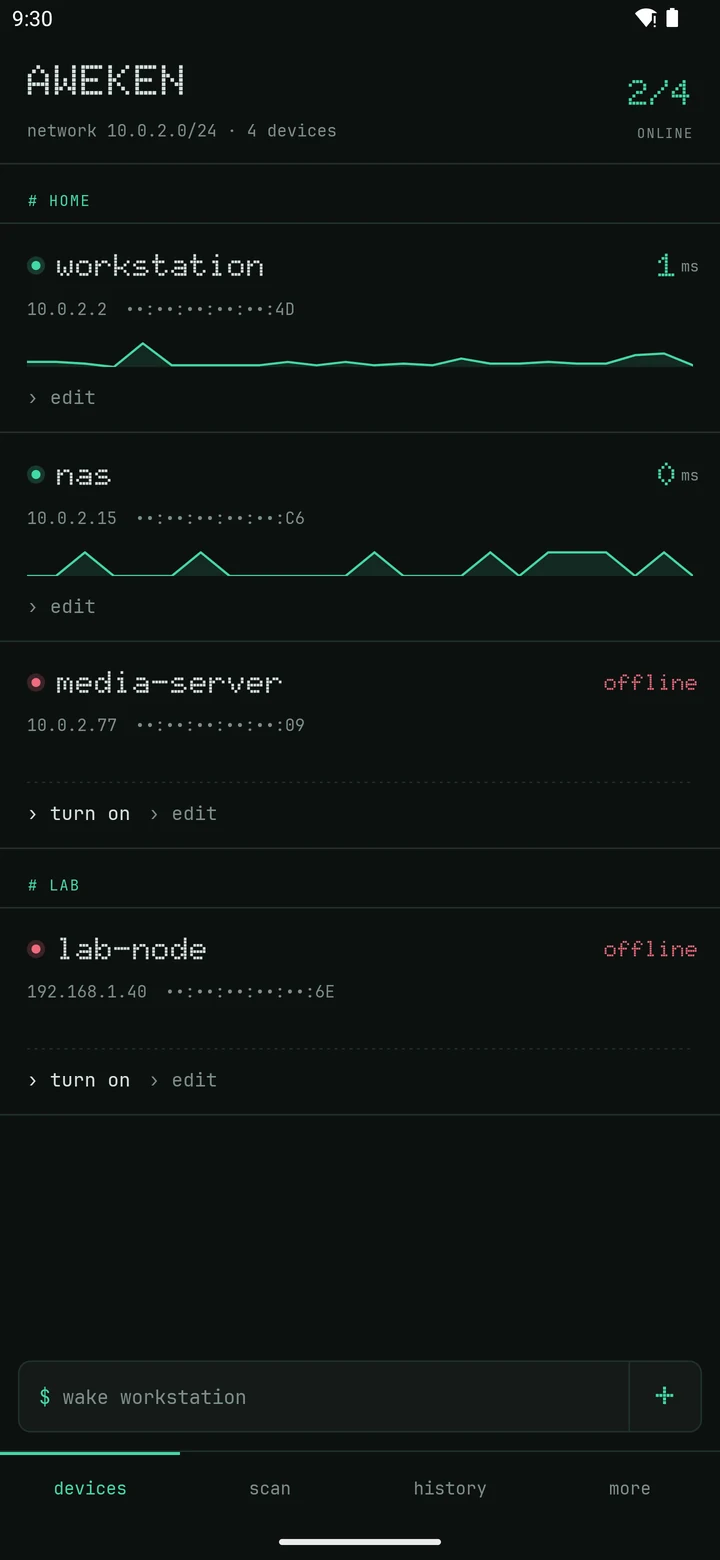
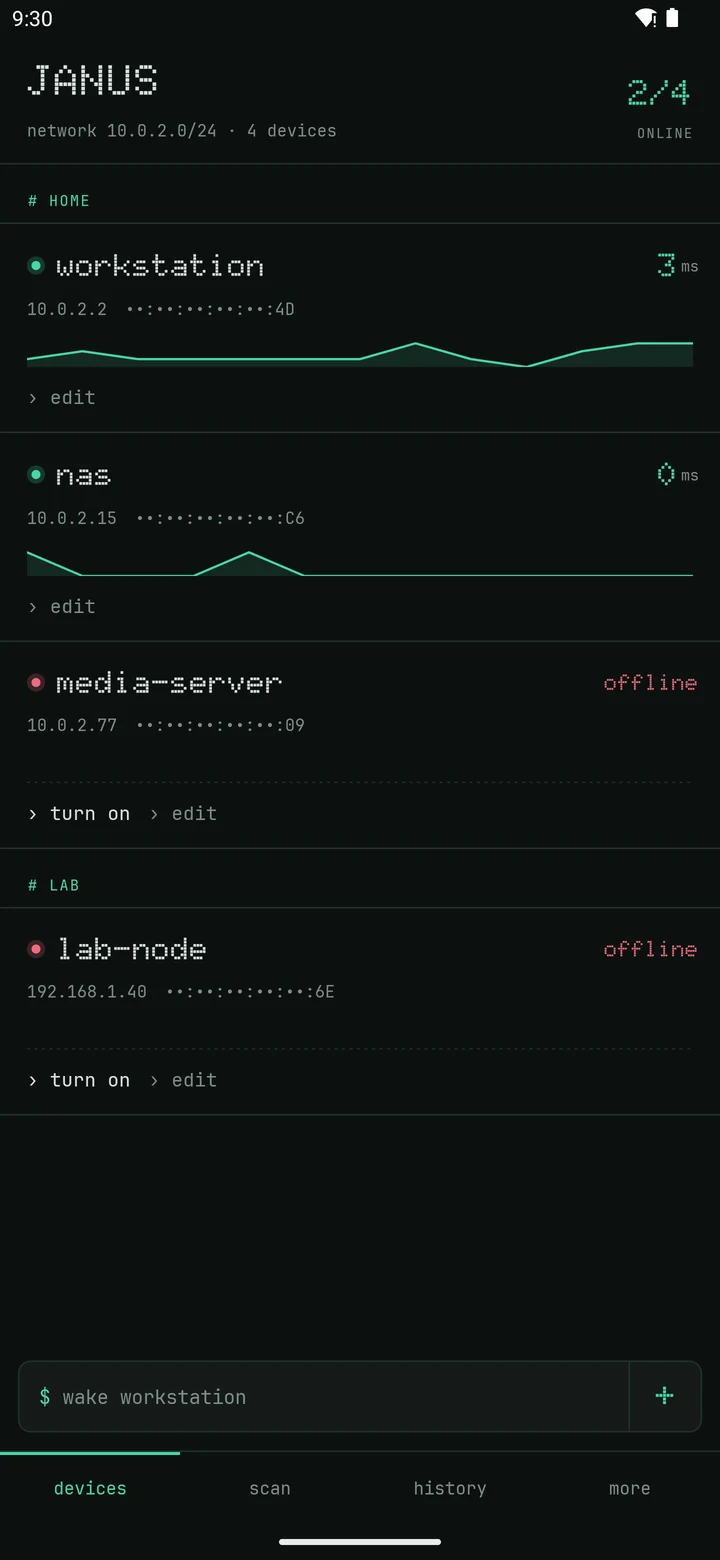
feat(brand): Rename the app from Aweken to Janus

diff --git a/app/src/main/java/com/ymid/wakeonlan/security/SshKeyManager.kt b/app/src/main/java/com/ymid/wakeonlan/security/SshKeyManager.kt
@@ -21,6 +21,7 @@ object SshKeyManager {
     private const val ECDSA_KEY_TYPE = "ecdsa-sha2-nistp256"
     private const val ECDSA_CURVE_NAME = "nistp256"
     private const val EC_COORDINATE_LENGTH = 32
+    // The app was called Aweken: keys already in the Keystore live under this prefix
     const val ALIAS_PREFIX = "aweken_ssh_"
 
     @JvmStatic
@@ -54,9 +55,9 @@ object SshKeyManager {
         val entry = keyStore.getEntry(alias, null) as? KeyStore.PrivateKeyEntry
         when (val pubKey = entry?.certificate?.publicKey) {
             is ECPublicKey ->
-                "$ECDSA_KEY_TYPE ${Base64.encodeToString(encodeSshEcdsa(pubKey), Base64.NO_WRAP)} aweken"
+                "$ECDSA_KEY_TYPE ${Base64.encodeToString(encodeSshEcdsa(pubKey), Base64.NO_WRAP)} janus"
             is RSAPublicKey ->
-                "ssh-rsa ${Base64.encodeToString(encodeSshRsa(pubKey), Base64.NO_WRAP)} aweken"
+                "ssh-rsa ${Base64.encodeToString(encodeSshRsa(pubKey), Base64.NO_WRAP)} janus"
             else -> null
         }
     } catch (_: Exception) { null }

diff --git a/app/src/main/java/com/ymid/wakeonlan/JanusApplication.kt b/app/src/main/java/com/ymid/wakeonlan/JanusApplication.kt
@@ -10,7 +10,7 @@ import com.ymid.wakeonlan.ui.LauncherIconManager
 import com.ymid.wakeonlan.ui.notifications.NotificationHelper
 import java.util.concurrent.Executors
 
-class AwekenApplication : Application() {
+class JanusApplication : Application() {
     override fun onCreate() {
         super.onCreate()
         LauncherIconManager.register(this)

diff --git a/app/src/main/java/com/ymid/wakeonlan/ui/MainActivity.java b/app/src/main/java/com/ymid/wakeonlan/ui/MainActivity.java
@@ -33,7 +33,7 @@ public class MainActivity extends AppCompatActivity implements ConsoleHeaderHost
 
     /** Set by the Assistant's "network scan" feature to land on the scan tab. */
     public static final String EXTRA_OPEN_SCAN = "openScan";
-    private static final String ISSUES_URL = "https://github.com/YmidOrtega/Awaken-Wake-On-Lan-/issues";
+    private static final String ISSUES_URL = "https://github.com/YmidOrtega/Janus/issues";
     private static final int MORE_BACKUP = 1;
     private static final int MORE_SETTINGS = 2;
     private static final int MORE_ISSUES = 3;

diff --git a/README.md b/README.md
@@ -1,16 +1,17 @@
-# Awaken
+# Janus
 
 **Turn your computers on from home and off from anywhere.** An Android app that wakes machines with a
 Wake-on-LAN magic packet, shuts them down over SSH, and pings them over ICMP, without root, to show
-which ones are online.
+which ones are online. Janus is the Roman god of doors, beginnings and endings, with two faces: one turns
+your machines on, the other turns them off, and the door is your home network.
 
-[![Java CI](https://github.com/YmidOrtega/Awaken-WoL/actions/workflows/build.yml/badge.svg)](https://github.com/YmidOrtega/Awaken-WoL/actions/workflows/build.yml)
+[![Java CI](https://github.com/YmidOrtega/Janus/actions/workflows/build.yml/badge.svg)](https://github.com/YmidOrtega/Janus/actions/workflows/build.yml)
 [![Android](https://img.shields.io/badge/Android-7.0%2B-3DDC84?logo=android)](https://developer.android.com/)
 [![Target SDK](https://img.shields.io/badge/targetSdk-36-3DDC84)](shared-build.gradle)
 [![License](https://img.shields.io/badge/License-GPL--2.0-blue.svg)](LICENSE)
 
 <p align="center">
-  <img src="docs/img/devices.webp" alt="Device list on an emulator: workstation and nas online at 1 ms and 0 ms with their ping history, media-server and lab-node offline with a turn on action, grouped under Home and Lab, and the command bar suggesting wake workstation" width="360" />
+  <img src="docs/img/devices.webp" alt="Device list on an emulator: workstation and nas online at 3 ms and 0 ms with their ping history, media-server and lab-node offline with a turn on action, grouped under Home and Lab, and the command bar suggesting wake workstation" width="360" />
 </p>
 
 <sub>The device list on an emulator. The two online devices answer a real ICMP ping, and the line under each
@@ -18,7 +19,7 @@ one is its recent latency. The command bar takes typed commands like `wake works
 
 ## Waking is easy, shutting down is not
 
-Wake-on-LAN only goes one way: there is no magic packet that turns a machine off. Awaken closes the loop
+Wake-on-LAN only goes one way: there is no magic packet that turns a machine off. Janus closes the loop
 with SSH. It logs into the machine with a password or a private key and runs the shutdown command you set
 for that device, for example `sudo shutdown -h now`. Remote shutdown works on Linux machines.
 
@@ -35,7 +36,7 @@ The app stores what it takes to log into your machines, so it treats them that w
   random, generated on first launch, and kept in the Android Keystore, never in the code. A plaintext
   database from an older version is encrypted in place on startup.
 - **Host keys pinned on first use.** The first SSH connection stores the host key fingerprint. If it ever
-  changes, Awaken refuses to connect instead of sending your password to a machine that may not be yours.
+  changes, Janus refuses to connect instead of sending your password to a machine that may not be yours.
 - **Biometrics or PIN before acting.** Editing a device always asks. Waking and shutting down skip it only
   on Wi-Fi networks you mark as trusted, and never when the request comes from outside the app (voice, a
   tile, a shortcut).
@@ -65,8 +66,8 @@ Firebase (Crashlytics, Analytics, Remote Config) is optional: the app builds and
 JDK 17 and the Android SDK (compileSdk 36):
 
 ```bash
-git clone https://github.com/YmidOrtega/Awaken-WoL.git
-cd Awaken-WoL
+git clone https://github.com/YmidOrtega/Janus.git
+cd Janus
 ./gradlew assembleDebug        # app/build/outputs/apk/debug/app-debug.apk
 ```
 
@@ -110,8 +111,8 @@ bixby/              Bixby capsule
 | Document | Content |
 |---|---|
 | [`AGENTS.md`](AGENTS.md) | Guide for agents and contributors: architecture, persistence and gotchas |
-| [DeepWiki](https://deepwiki.com/YmidOrtega/Awaken-WoL) | Generated walkthrough of the codebase |
-| [ymid.me](https://www.ymid.me/projects/awaken-wol) | The story behind it, with a video on a real phone |
+| [DeepWiki](https://deepwiki.com/YmidOrtega/Janus) | Generated walkthrough of the codebase |
+| [ymid.me](https://www.ymid.me/projects/janus) | The story behind it, with a video on a real phone |
 
 ## License
 

diff --git a/AGENTS.md b/AGENTS.md
@@ -1,7 +1,7 @@
 # AGENTS: Guidance for AI coding agents working on WakeOnLan
 
 This document gives focused, actionable knowledge for an AI code agent to become productive quickly in this repository.
-App name: Mi PC. Base package/applicationId: `com.ymid.wakeonlan`.
+App name: Janus. Base package/applicationId: `com.ymid.wakeonlan`.
 
 1) Quick checklist (first actions)
 - Build the project: `./gradlew assembleDebug` (root). If you only want the app module: `./gradlew :app:assembleDebug`.
